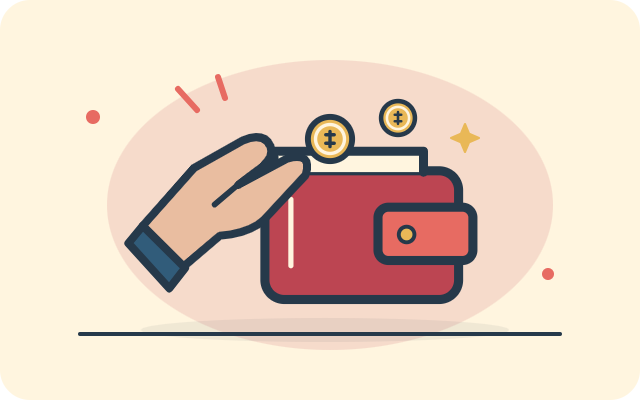
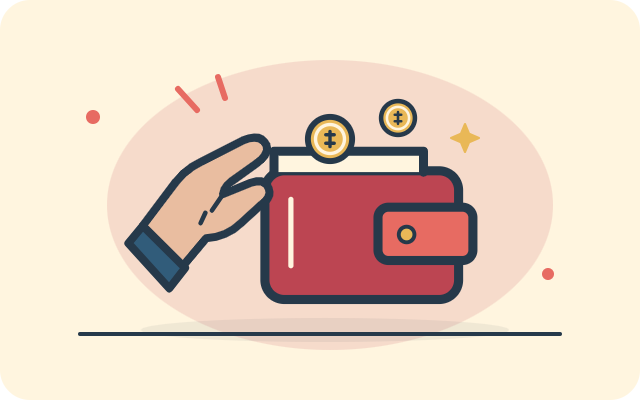
fix(powerups-art): refine hand anatomy and coin geometry

Changed region(s): [[0.2812, 0.33, 0.5, 0.66], [0.2188, 0.36, 0.375, 0.57]]

diff --git a/project-document/powerups/09C1_ARTWORK_REFINEMENT_REPORT.md b/project-document/powerups/09C1_ARTWORK_REFINEMENT_REPORT.md
@@ -1,0 +1,131 @@
+# Phase 09C.1 — Artwork detail refinement and visual defect audit
+
+CURRENT DEVELOPMENT — 2026-10-27 (Asia/Bangkok). **STATUS: COMPLETE** — visual inspection and all required local verification gates passed.
+
+## Scope and baseline
+
+Verified entry: branch `codex/v1.10.0-refactor`, HEAD `2bef82ca9fc62d28a06a0144583e1e86e0c11228`. Read the Phase 09B implementation and asset inventory, Phase 09C visual QA, canonical client/artwork guidance, existing illustration module, exporter and validators. All 30 fronts (A01–A10, D01–D10, U01–U10) were visually inspected at 640×400, with enlarged hand/coin crops and compact comparisons. The two reference screenshots mentioned in the brief were not attached; the attachment contained only the brief. Findings were traced independently to canonical SVG geometry and actual renders.
+
+Fifteen fronts were refined; fifteen fronts and all three category backs remain byte-identical. All 30 mappings, four rarity treatments, titles, categories, descriptions, effects, typography and UI behavior are preserved. No client runtime component, server gameplay file, shared contract or registry was edited. Existing palette, outline language, composition and category identity are preserved. The existing illustration geometry module was refined; exporter and validators are unchanged. SVG remains canonical and PNGs were regenerated with the existing exporter.
+
+## Issue inventory and corrections
+
+P2 denotes a clear anatomy/shape-readability defect; P3 denotes a minor contour/overlap/alignment defect. No P1 issue was found.
+
+- Hands: **A01, A06, D02, D07** — all four inspected and corrected. The shared pincer extended the thumb past the finger group and lacked a clear opposition crease. Compact thumb proportions, palm transitions and finger creases improve the original pinching action. D07 receives a cupped supporting palm in its original position and action.
+- Coin/currency illustrations inspected: **A01, A02, A03, A07, A09, A10, D01, D07, D08, U03, U07**. Six stacks in **A02, A03, A07, A10, D08, U03** had an unstroked top ellipse painting over the cylinder contour. Closed outlined cylinder/top paths repair the source, retaining the intentional foreground standing-coin overlap and symbols. Other currency contours were correct. Gold decoration, D04 shield charges, D09 lock rivet, U05 compass and U10 markers were also inspected; decorative circular marks were not misclassified as currency.
+- Six pawn bases in **A10, D08, U02, U06, U07, U08** had an unstroked cream fill erasing the lower outline. A closed elliptical base restores the existing contour weight and fill.
+- **D02**: moved the blue motion tick away from the fingers.
+- **U10**: placed the same three gold markers inside each rotated card's local transform so they follow the frame.
+
+No clip paths, masks, filters or external image resources were responsible for the findings. ViewBox and dimensions stay 640×400; rounded joins/caps and existing ink weights are retained. Intentional object occlusion is preserved. No known broken contour remains after the visual review.
+
+## All-card audit
+
+| Card ID | Defect Type | Original Issue | Fix Applied | Visual Verification | Status |
+| --- | --- | --- | --- | --- | --- |
+| A01 | P2 hand anatomy | Long thumb and ambiguous pinch silhouette | Compact thumb, finger/palm transition and creases | Full/crop/160×100 comparison; live inventory and detail | Modified; verified |
+| A02 | P2 coin contour | Unstroked top face erased stack rim | Closed outlined cylinder and top face | Full/crop/160×100 comparison; live inventory and detail | Modified; verified |
+| A03 | P2 coin contour | Unstroked top face erased stack rim | Closed outlined cylinder and top face | Full/crop/160×100 comparison; live inventory and detail | Modified; verified |
+| A04 | None found | Contours, overlap, proportions and compact readability inspected | No change | Original full-art audit; updated category sheet; real inventory mapping | Inspected — correct |
+| A05 | None found | Contours, overlap, proportions and compact readability inspected | No change | Original full-art audit; updated category sheet; real inventory mapping | Inspected — correct |
+| A06 | P2 hand anatomy | Long thumb and ambiguous pinch silhouette | Compact thumb, finger/palm transition and creases | Full/crop/160×100 comparison; live inventory and detail | Modified; verified |
+| A07 | P2 coin contour | Unstroked top face erased stack rim | Closed outlined cylinder and top face | Full/crop/160×100 comparison; live inventory and detail | Modified; verified |
+| A08 | None found | Contours, overlap, proportions and compact readability inspected | No change | Original full-art audit; updated category sheet; real inventory mapping | Inspected — correct |
+| A09 | None found | Contours, overlap, proportions and compact readability inspected | No change | Original full-art audit; updated category sheet; real inventory mapping | Inspected — correct |
+| A10 | P2 coin + P3 token contour | Open coin rim; base fill erased pawn outline | Closed coin paths and complete outlined token base | Full/crop/160×100 comparison; live inventory and detail | Modified; verified |
+| D01 | None found | Contours, overlap, proportions and compact readability inspected | No change | Original full-art audit; updated category sheet; real inventory mapping | Inspected — correct |
+| D02 | P2 hand + P3 overlap | Long thumb; motion tick crossed fingers | Compact pinch and motion tick outside hand silhouette | Full/crop/160×100 comparison; live inventory and detail | Modified; verified |
+| D03 | None found | Contours, overlap, proportions and compact readability inspected | No change | Original full-art audit; updated category sheet; real inventory mapping | Inspected — correct |
+| D04 | None found | Contours, overlap, proportions and compact readability inspected | No change | Original full-art audit; updated category sheet; real inventory mapping | Inspected — correct |
+| D05 | None found | Contours, overlap, proportions and compact readability inspected | No change | Original full-art audit; updated category sheet; real inventory mapping | Inspected — correct |
+| D06 | None found | Contours, overlap, proportions and compact readability inspected | No change | Original full-art audit; updated category sheet; real inventory mapping | Inspected — correct |
+| D07 | P2 hand anatomy | Pincer grip did not clearly support the bag | Short opposable thumb and cupped supporting palm | Full/crop/160×100 comparison; live inventory and detail | Modified; verified |
+| D08 | P2 coin + P3 token contour | Open coin rim; base fill erased pawn outline | Closed coin paths and complete outlined token base | Full/crop/160×100 comparison; live inventory and detail | Modified; verified |
+| D09 | None found | Contours, overlap, proportions and compact readability inspected | No change | Original full-art audit; updated category sheet; real inventory mapping | Inspected — correct |
+| D10 | None found | Contours, overlap, proportions and compact readability inspected | No change | Original full-art audit; updated category sheet; real inventory mapping | Inspected — correct |
+| U01 | None found | Contours, overlap, proportions and compact readability inspected | No change | Original full-art audit; updated category sheet; real inventory mapping | Inspected — correct |
+| U02 | P3 token contour | Base fill erased lower pawn outline | Closed outlined elliptical base | Full/crop/160×100 comparison; live inventory and detail | Modified; verified |
+| U03 | P2 coin contour | Unstroked top face erased stack rim | Closed outlined cylinder and top face | Full/crop/160×100 comparison; live inventory and detail | Modified; verified |
+| U04 | None found | Contours, overlap, proportions and compact readability inspected | No change | Original full-art audit; updated category sheet; real inventory mapping | Inspected — correct |
+| U05 | None found | Contours, overlap, proportions and compact readability inspected | No change | Original full-art audit; updated category sheet; real inventory mapping | Inspected — correct |
+| U06 | P3 token contour | Base fill erased lower pawn outline | Closed outlined elliptical base | Full/crop/160×100 comparison; live inventory and detail | Modified; verified |
+| U07 | P3 token contour | Base fill erased lower pawn outline | Closed outlined elliptical base | Full/crop/160×100 comparison; live inventory and detail | Modified; verified |
+| U08 | P3 token contour | Base fill erased lower pawn outline | Closed outlined elliptical base | Full/crop/160×100 comparison; live inventory and detail | Modified; verified |
+| U09 | None found | Contours, overlap, proportions and compact readability inspected | No change | Original full-art audit; updated category sheet; real inventory mapping | Inspected — correct |
+| U10 | P3 marker alignment | Marker rows straddled rotated card edges | Same markers positioned inside each local card transform | Full/crop/160×100 comparison; live inventory and detail | Modified; verified |
+
+## Modified source and asset paths
+
+The shared drawing definitions are in `scripts/art/powerUpIllustrations.mjs`; only hand, coin-stack, token-base geometry and D02/U10 placement were changed. `scripts/art/powerUpExportManifest.json` records the regenerated hashes. Existing export and validation scripts are unchanged.
+
+| ID | Canonical SVG | Regenerated PNG |
+| --- | --- | --- |
+| A01 | `apps/client/public/art/powerups/fronts/A01.svg` | `apps/client/public/art/powerups/fronts/A01.png` |
+| A02 | `apps/client/public/art/powerups/fronts/A02.svg` | `apps/client/public/art/powerups/fronts/A02.png` |
+| A03 | `apps/client/public/art/powerups/fronts/A03.svg` | `apps/client/public/art/powerups/fronts/A03.png` |
+| A06 | `apps/client/public/art/powerups/fronts/A06.svg` | `apps/client/public/art/powerups/fronts/A06.png` |
+| A07 | `apps/client/public/art/powerups/fronts/A07.svg` | `apps/client/public/art/powerups/fronts/A07.png` |
+| A10 | `apps/client/public/art/powerups/fronts/A10.svg` | `apps/client/public/art/powerups/fronts/A10.png` |
+| D02 | `apps/client/public/art/powerups/fronts/D02.svg` | `apps/client/public/art/powerups/fronts/D02.png` |
+| D07 | `apps/client/public/art/powerups/fronts/D07.svg` | `apps/client/public/art/powerups/fronts/D07.png` |
+| D08 | `apps/client/public/art/powerups/fronts/D08.svg` | `apps/client/public/art/powerups/fronts/D08.png` |
+| U02 | `apps/client/public/art/powerups/fronts/U02.svg` | `apps/client/public/art/powerups/fronts/U02.png` |
+| U03 | `apps/client/public/art/powerups/fronts/U03.svg` | `apps/client/public/art/powerups/fronts/U03.png` |
+| U06 | `apps/client/public/art/powerups/fronts/U06.svg` | `apps/client/public/art/powerups/fronts/U06.png` |
+| U07 | `apps/client/public/art/powerups/fronts/U07.svg` | `apps/client/public/art/powerups/fronts/U07.png` |
+| U08 | `apps/client/public/art/powerups/fronts/U08.svg` | `apps/client/public/art/powerups/fronts/U08.png` |
+| U10 | `apps/client/public/art/powerups/fronts/U10.svg` | `apps/client/public/art/powerups/fronts/U10.png` |
+
+Thirty asset files changed. The other 36 asset files (15 fronts × 2 plus 3 backs × 2) match the entry hashes exactly. Export verification reproduced all 33 PNGs pixel-for-pixel from their SVGs, including alpha. Structural/mapping validation and build/package byte parity passed.
+
+## Visual evidence and review
+
+Local evidence root, outside Git: `C:/Users/hungtran/Documents/ChatGPT/Own the block (monopoly)/powerup-phase09c1-evidence`.
+Repository-local generated review root: `test-results/powerup-09c1` (ignored, not committed).
+
+- External `index.html` is a browsable review of all 15 comparisons; `final-qa/` preserves final screenshots, contact sheets and evidence manifests.
+- `before/audit-01.png` through `before/audit-08.png`: original collection at normal artwork scale; enlarged original hand/coin crops are alongside them.
+- `comparisons/{ID}-before-after.png` for every modified ID in the table: full 640×400 original/corrected artwork, enlarged vector detail and 160×100 preview. All 15 comparisons were opened and visually inspected, including all corrected hands, coin stacks, pawn bases and U10 markers.
+- `contact-sheets/ATTACK.png`, `contact-sheets/DEFENSE.png`, `contact-sheets/UTILITY.png`: updated collection; all opened and inspected against untouched illustrations. Back/reference sheets are generated alongside them.
+- `browser/evidence.json`, `native/evidence.json`: actual production UI acceptance results and screenshot lists. Corresponding screenshots cover 1440×900, 1280×720 and 900×500. Scrollable short-height dialogs include scrolled captures.
+- `c1-refined-detail-{ID}-1440x900.png`: every modified card in real details; A01/A02/D02/D07/U10 details additionally captured at both smaller sizes.
+- `c1-refined-inventory-{1..5}-{size}.png`: all 15 refined cards across five real three-card inventories, every required size.
+- `c1-refined-reward-{size}.png`: server-created reward, authorized reveal of A01/D02/U03 and real claim.
+- `c1-refined-activation-A01-{size}.png` and `c1-refined-reaction-D02-{size}.png`: real authenticated activation and recipient Reaction, including the preserved blocked cash-transfer outcome.
+
+The reviewed browser and packaged Windows Electron UI shows clear pinching/supporting silhouettes, complete coin-stack rims, continuous pawn bases and aligned U10 markers. Compact details remain consistent with the unchanged artwork; there is no artwork fallback or horizontal modal overflow. All 30 cards still use their correct official assets; hidden reward backs disclose neither identity nor rarity, and reduced-motion/reconnect checks are retained.
+
+The opt-in `scripts/art/powerUpRefinementAcceptance.mjs` adds three focused groups to `scripts/powerUpStabilizationAcceptance.check.mjs` via `--refinement`. It uses committed in-memory test fixtures and production components/authenticated decisions; it introduces no product debug endpoint. Existing acceptance assertions remain intact. New groups execute after the original 13 groups. Before the existing Legendary scenario, the harness reconnects the seeded owner through normal session hydration to discard queued feedback from prior inventory replacements. The existing visibility/status assertions remain; U04 now waits for the same two initialized recipe checkboxes instead of reading them synchronously. This follows the existing session-sync contract and changes no product behavior.
+
+## Automated verification
+
+Command output and exact arguments are recorded in the external evidence root as matching log/JSON files. Commands ran with the bundled Node/pnpm runtime through hidden child processes because the terminal launcher fails Windows CET startup on this host.
+
+| Check | Result | Evidence |
+| --- | --- | --- |
+| Full `pnpm test` | PASS | 2,724 client / 271 files; 1,161 server / 45 files, 2 existing skips; 629 desktop / 41 files; 74 root tooling tests |
+| `pnpm typecheck` | PASS | client, server, shared and desktop workspace checks |
+| `pnpm lint` | PASS | full lint plus final targeted QA-harness lint; initial unused global annotation in new helper removed |
+| `pnpm build` | PASS | production build and asset validators |
+| `pnpm desktop:make` | PASS | Windows package and Squirrel/ZIP distributables built locally |
+| `node apps/client/scripts/validatePowerUpArtwork.mjs` | PASS | all 33 SVG/PNG pairs and build copies |
+| `node scripts/art/exportPowerUpArtwork.mjs --verify` | PASS | all 33 exact pixel comparisons |
+| `node apps/desktop/scripts/validatePackagedPowerUpArt.mjs` | PASS | packaged renderer has all 33 byte-identical pairs |
+| `node scripts/art/powerUpContactSheets.mjs` | PASS | updated sheets generated and visually reviewed |
+| Browser acceptance `--refinement` | PASS | 16 groups, production Chromium owner/opponent |
+| Packaged Electron acceptance `--refinement --native` | PASS | 16 groups; packaged Electron 43.4.0 app:// owner, Chromium opponent |
+| `pnpm validate:docs` | PASS | 225 Markdown files |
+| Git diff/integrity and preservation | PASS | diff --check; fsck exit 0; all 38 original dirty paths retain exact bytes |
+
+Initial browser attempts are retained separately: one failed the transient Legendary feedback assertion after new fixture groups ran before the original scenarios; another hit the original immediate U04 checkbox-count assertion before UI initialization settled. Moving the new groups to the end produced a complete 16-group browser PASS; native then reproduced the stale-feedback backlog. Source inspection confirmed 650 ms per queued event and session-sync cancellation. The final harness hydrates the seeded Legendary fixture before checking actual activation feedback, and awaits recipe initialization without changing the expected count. Both final complete runs passed all 16 groups after these isolation fixes, with 114 screenshots each and zero page errors. No gameplay or renderer change was made to accommodate these failures. Final logs, rather than failed partial runs, determine acceptance. Build logs contain the existing chunk-size/Node deprecation warnings. Git fsck reports dangling objects without integrity errors; they were left untouched.
+
+## Git safety and closeout
+
+The 38 pre-existing dirty paths (three tracked files and 35 untracked audit files) were copied with hashes before editing. All retain identical bytes; none is included in this task's commit. Baseline source/assets and index/patch evidence are retained outside the repository. The final focused commit includes only the 30 corrected asset files, illustration source/export manifest, opt-in QA helper/harness and three documentation files. The containing commit is discoverable with `git log -1 -- project-document/powerups/09C1_ARTWORK_REFINEMENT_REPORT.md`; its hash is recorded in the final handoff and external closeout evidence.
+
+No PR, push, merge, deployment, release, tag or history rewrite was performed. Existing consolidated commits remain ancestors.
+
+## Remaining limitations
+
+No known visual defect remains from this audit. The two referenced screenshots were unavailable, so no claim is made about matching their precise crop. Visual acceptance covers local Chromium and the actual packaged Windows Electron renderer at the required sizes. Physical-device/GPU fidelity, refresh-rate perception, audio listening, macOS and cross-device UAT were not performed; automated screenshots do not certify those areas. This is a local current-development refinement, not a published release.

diff --git a/project-document/monopoly-websockets/testcase/power-ups.md b/project-document/monopoly-websockets/testcase/power-ups.md
@@ -41,3 +41,7 @@ Current results and remaining manual requirements supersede the earlier partial 
 - Production integration: run `node --import ./apps/server/node_modules/tsx/dist/loader.mjs scripts/powerUpStabilizationAcceptance.check.mjs --artwork`; add `--native` after packaging. The extension `scripts/art/powerUpArtworkAcceptance.mjs` checks hidden image requests/DOM, real reward selection/reconnect, all 30 inventory fronts, four actual frames, full details, reduced motion, modal bounds and three viewport captures. Existing stabilization scenarios still check activation, reactions, full-hand consent/reload, shield charges and keyboard focus.
 - Packaged assets: `pnpm --filter @monopoly/desktop proof:packaged:powerups` compares all SVG/PNG source and packaged bytes. Build validation checks the same artwork set.
 - Actual visual results and evidence: [09C visual QA](../../powerups/09C_VISUAL_QA_REPORT.md). Physical GPU/display, human full-match and macOS remain separate checks.
+
+## Phase 09C.1 focused visual refinement
+
+Run the existing stabilization harness with `--refinement` (and `--native` for packaged Electron). This includes the existing artwork acceptance plus `scripts/art/powerUpRefinementAcceptance.mjs`: all fifteen corrected fronts in inventory at 1440×900, 1280×720 and 900×500; full-card details and priority hand/coin detail views; deterministic authorized reward reveal; A01 activation and recipient D02 Reaction. Output is separate under `test-results/powerup-09c1/`. Visual findings, inspected before/after comparisons and actual results are recorded in [the refinement report](../../powerups/09C1_ARTWORK_REFINEMENT_REPORT.md). These are art-only changes; original acceptance scenarios remain enabled.

diff --git a/project-document/README.md b/project-document/README.md
@@ -189,3 +189,8 @@ All 30 official cards have server-side handlers and functional client commands; 
 ## Power-up Phase 09B–09C artwork (CURRENT DEVELOPMENT)
 
 [Artwork implementation](./powerups/09B_ARTWORK_IMPLEMENTATION_REPORT.md), [30-card asset inventory](./powerups/09B_CARD_ART_ASSET_INVENTORY.md) and [visual QA](./powerups/09C_VISUAL_QA_REPORT.md) record the original vector/PNG family, category backs, rarity frames, integrated client surfaces and browser/packaged Electron evidence. Gameplay definitions and protocol remain unchanged. Local commits only; physical-device/product acceptance and publication remain separate.
+
+
+## Power-up Phase 09C.1 detail refinement (CURRENT DEVELOPMENT)
+
+[Artwork refinement audit](./powerups/09C1_ARTWORK_REFINEMENT_REPORT.md) records the full 30-card hand/coin/contour review, focused SVG/PNG corrections, before/after evidence and regression results. The approved compositions, card backs, rarity frames, UI behavior and gameplay definitions remain unchanged.
